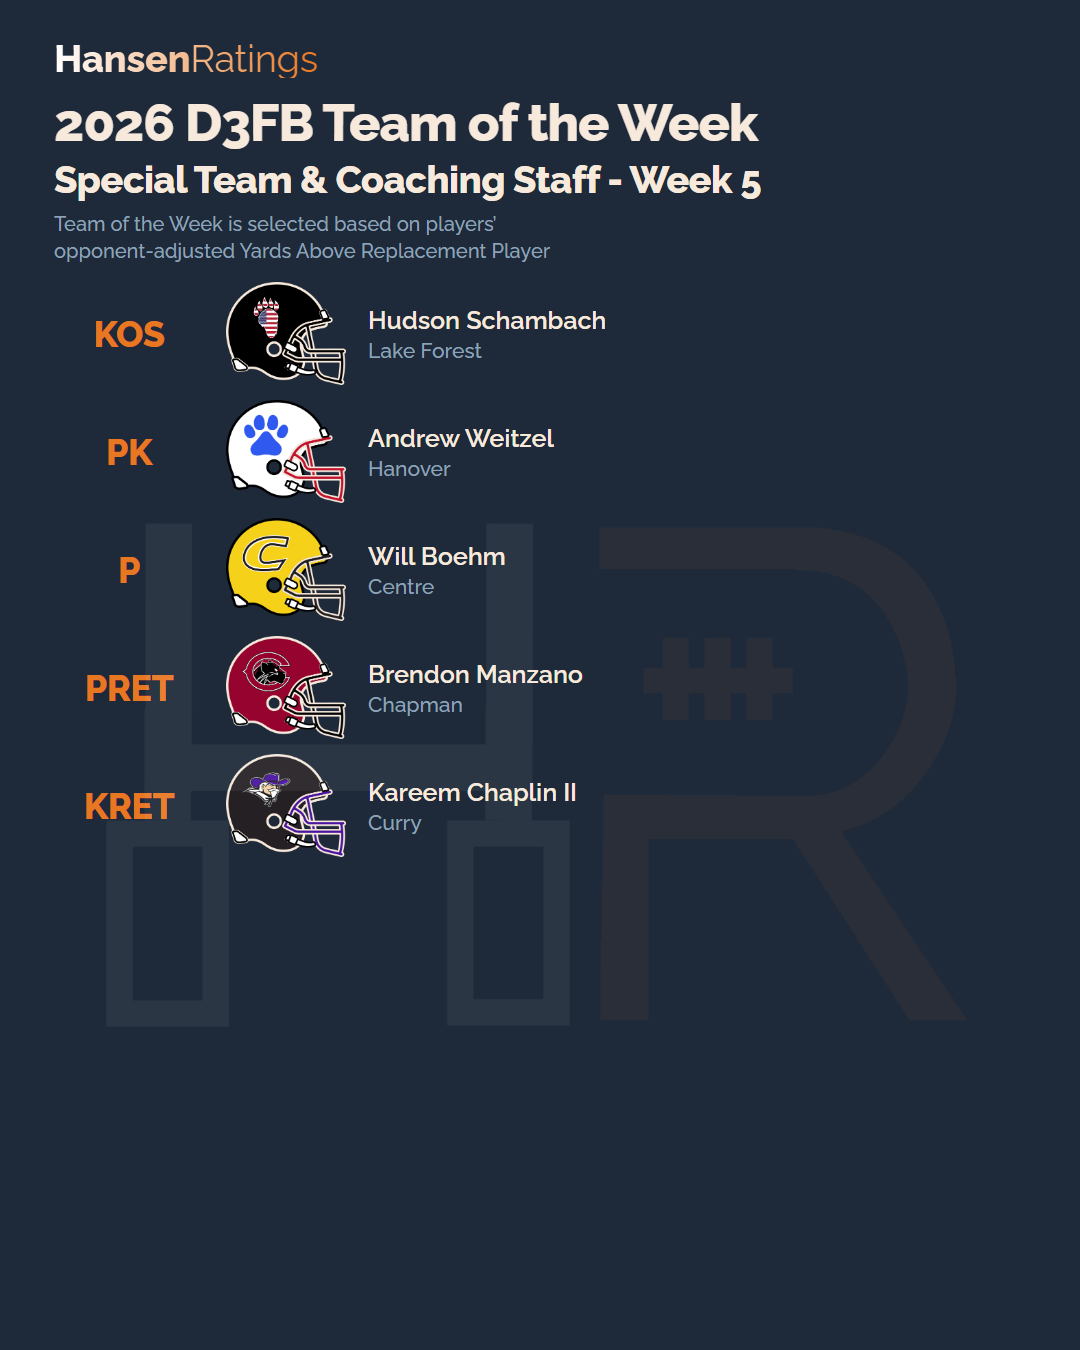
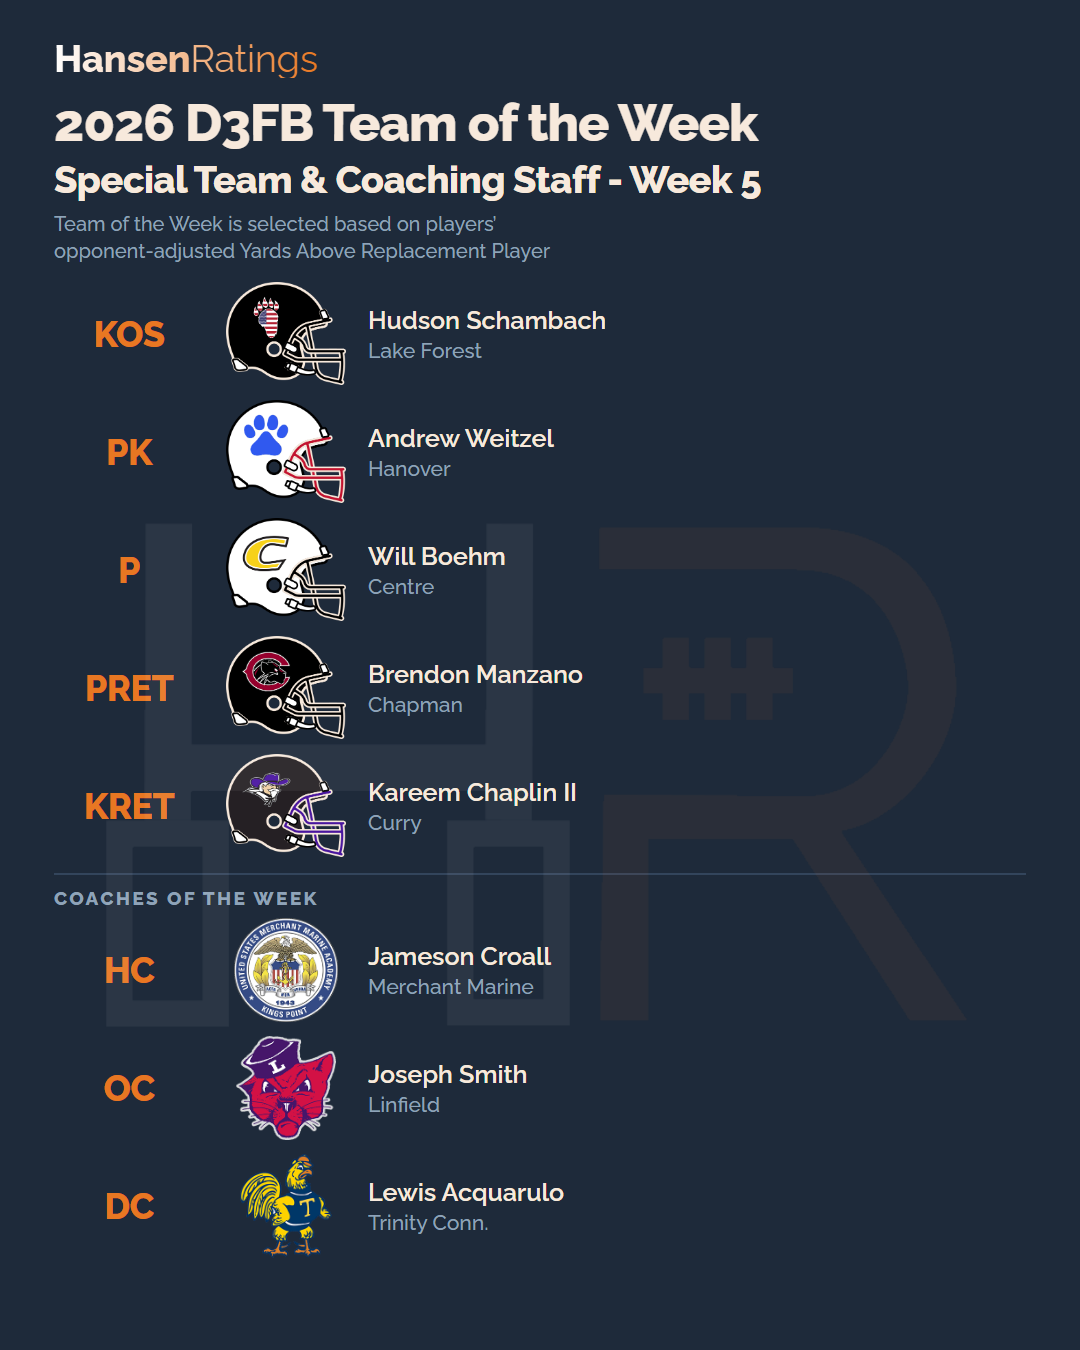
Week 5 TOTW

diff --git a/site/awards/2026/team-of-the-week/week-5/index.html b/site/awards/2026/team-of-the-week/week-5/index.html
@@ -25,7 +25,7 @@
     <nav class="hr-switch" aria-label="Season"><span class="hr-switch-label">Season</span><a aria-current="page">2026</a><a href="/awards/2025/">2025</a><a href="/awards/2024/">2024</a><a href="/awards/2023/">2023</a><a href="/awards/2022/">2022</a></nav><nav class="hr-switch" aria-label="View"><span class="hr-switch-label">View</span><a aria-current="page">Team of the Week</a></nav><nav class="hr-switch" aria-label="Week"><span class="hr-switch-label">Week</span><a aria-current="page">Week 5</a><a href="/awards/2026/team-of-the-week/week-4/">Week 4</a><a href="/awards/2026/team-of-the-week/week-3/">Week 3</a><a href="/awards/2026/team-of-the-week/week-2/">Week 2</a><a href="/awards/2026/team-of-the-week/week-1/">Week 1</a></nav>
   </div>
   <main class="hr-main">
-<div class="hr-scroll"><div class="hr-totw"><section class="u-off"><h2>Offense</h2><div class="r"><b>QB</b><span>Demir Ashiru<small>So</small><span class="t">UW-Oshkosh</span></span></div><div class="r"><b>RB</b><span>Tommy Novotny<small>Fr</small><span class="t">UW-Whitewater</span></span></div><div class="r"><b>RB</b><span>Dane Sorensen<small>Jr</small><span class="t">Dickinson</span></span></div><div class="r"><b>WR</b><span>Tyson Resper<small>Sr</small><span class="t">N.C. Wesleyan</span></span></div><div class="r"><b>WR</b><span>Angelo Cimino<small>Jr</small><span class="t">Merchant Marine</span></span></div><div class="r"><b>TE</b><span>Logan Frederick<small>Sr</small><span class="t">Utica</span></span></div><div class="r"><b>LT</b><span>Tyson Cramer<small>Sr</small><span class="t">North Central Ill.</span></span></div><div class="r"><b>LG</b><span>Dennis Dracup<small>So</small><span class="t">North Central Ill.</span></span></div><div class="r"><b>C</b><span>Jorge Ortiz<small>Sr</small><span class="t">North Central Ill.</span></span></div><div class="r"><b>RG</b><span>Cortez Jones<small>Sr</small><span class="t">North Central Ill.</span></span></div><div class="r"><b>RT</b><span>Jake Buckley<small>Fr</small><span class="t">North Central Ill.</span></span></div></section><section class="u-def"><h2>Defense</h2><div class="r"><b>DE</b><span>Joaquin Acuna<small>Sr</small><span class="t">Dickinson</span></span></div><div class="r"><b>DE</b><span>Beau Schrot<small>Jr</small><span class="t">UW-River Falls</span></span></div><div class="r"><b>DT</b><span>John Klefstad<small>Sr</small><span class="t">UW-River Falls</span></span></div><div class="r"><b>OLB</b><span>Luis Jaquez<small>Sr</small><span class="t">Western Connecticut</span></span></div><div class="r"><b>ILB</b><span>Marco Kaufman<small>Jr</small><span class="t">Dickinson</span></span></div><div class="r"><b>ILB</b><span>Toby White<small>Fr</small><span class="t">East Texas Baptist</span></span></div><div class="r"><b>CB</b><span>Drew Kortz<small>So</small><span class="t">UW-Whitewater</span></span></div><div class="r"><b>CB</b><span>Kam Brown<small>Jr</small><span class="t">Rowan</span></span></div><div class="r"><b>CB</b><span>Carter Sessa<small>Jr</small><span class="t">UW-Whitewater</span></span></div><div class="r"><b>SAF</b><span>Jonjon Delgado<small>Sr</small><span class="t">Willamette</span></span></div><div class="r"><b>SAF</b><span>Dawson Goodman<small>Sr</small><span class="t">UW-Stout</span></span></div></section><section class="u-st"><h2>Special Teams</h2><div class="r"><b>KOS</b><span>Hudson Schambach<small>So</small><span class="t">Lake Forest</span></span></div><div class="r"><b>PK</b><span>Andrew Weitzel<small>So</small><span class="t">Hanover</span></span></div><div class="r"><b>P</b><span>Will Boehm<small>Sr</small><span class="t">Centre</span></span></div><div class="r"><b>PRET</b><span>Brendon Manzano<small>Sr</small><span class="t">Chapman</span></span></div><div class="r"><b>KRET</b><span>Kareem Chaplin II<small>So</small><span class="t">Curry</span></span></div></section></div><div class="hr-boards"><img src="offense.png?v=43714f21" alt="2026 Week 5 team of the week, offense" loading="lazy"><img src="defense.png?v=94f7d1f1" alt="2026 Week 5 team of the week, defense" loading="lazy"><img src="special-teams.png?v=fe670494" alt="2026 Week 5 team of the week, special teams" loading="lazy"></div></div>
+<div class="hr-scroll"><div class="hr-totw"><section class="u-off"><h2>Offense</h2><div class="r"><b>QB</b><span>Demir Ashiru<small>So</small><span class="t">UW-Oshkosh</span></span></div><div class="r"><b>RB</b><span>Tommy Novotny<small>Fr</small><span class="t">UW-Whitewater</span></span></div><div class="r"><b>RB</b><span>Dane Sorensen<small>Jr</small><span class="t">Dickinson</span></span></div><div class="r"><b>WR</b><span>Tyson Resper<small>Sr</small><span class="t">N.C. Wesleyan</span></span></div><div class="r"><b>WR</b><span>Angelo Cimino<small>Jr</small><span class="t">Merchant Marine</span></span></div><div class="r"><b>TE</b><span>Logan Frederick<small>Sr</small><span class="t">Utica</span></span></div><div class="r"><b>LT</b><span>Tyson Cramer<small>Sr</small><span class="t">North Central Ill.</span></span></div><div class="r"><b>LG</b><span>Dennis Dracup<small>So</small><span class="t">North Central Ill.</span></span></div><div class="r"><b>C</b><span>Jorge Ortiz<small>Sr</small><span class="t">North Central Ill.</span></span></div><div class="r"><b>RG</b><span>Cortez Jones<small>Sr</small><span class="t">North Central Ill.</span></span></div><div class="r"><b>RT</b><span>Jake Buckley<small>Fr</small><span class="t">North Central Ill.</span></span></div></section><section class="u-def"><h2>Defense</h2><div class="r"><b>DE</b><span>Joaquin Acuna<small>Sr</small><span class="t">Dickinson</span></span></div><div class="r"><b>DE</b><span>Beau Schrot<small>Jr</small><span class="t">UW-River Falls</span></span></div><div class="r"><b>DT</b><span>John Klefstad<small>Sr</small><span class="t">UW-River Falls</span></span></div><div class="r"><b>OLB</b><span>Luis Jaquez<small>Sr</small><span class="t">Western Connecticut</span></span></div><div class="r"><b>ILB</b><span>Marco Kaufman<small>Jr</small><span class="t">Dickinson</span></span></div><div class="r"><b>ILB</b><span>Toby White<small>Fr</small><span class="t">East Texas Baptist</span></span></div><div class="r"><b>CB</b><span>Drew Kortz<small>So</small><span class="t">UW-Whitewater</span></span></div><div class="r"><b>CB</b><span>Kam Brown<small>Jr</small><span class="t">Rowan</span></span></div><div class="r"><b>CB</b><span>Carter Sessa<small>Jr</small><span class="t">UW-Whitewater</span></span></div><div class="r"><b>SAF</b><span>Jonjon Delgado<small>Sr</small><span class="t">Willamette</span></span></div><div class="r"><b>SAF</b><span>Dawson Goodman<small>Sr</small><span class="t">UW-Stout</span></span></div></section><section class="u-st"><h2>Special Teams</h2><div class="r"><b>KOS</b><span>Hudson Schambach<small>So</small><span class="t">Lake Forest</span></span></div><div class="r"><b>PK</b><span>Andrew Weitzel<small>So</small><span class="t">Hanover</span></span></div><div class="r"><b>P</b><span>Will Boehm<small>Sr</small><span class="t">Centre</span></span></div><div class="r"><b>PRET</b><span>Brendon Manzano<small>Sr</small><span class="t">Chapman</span></span></div><div class="r"><b>KRET</b><span>Kareem Chaplin II<small>So</small><span class="t">Curry</span></span></div></section><section class="u-co"><h2>Coaches</h2><div class="r"><b>HC</b><span>Jameson Croall<span class="t">Merchant Marine</span></span></div><div class="r"><b>OC</b><span>Joseph Smith<span class="t">Linfield</span></span></div><div class="r"><b>DC</b><span>Lewis Acquarulo<span class="t">Trinity Conn.</span></span></div></section></div><div class="hr-boards"><img src="offense.png?v=43714f21" alt="2026 Week 5 team of the week, offense" loading="lazy"><img src="defense.png?v=94f7d1f1" alt="2026 Week 5 team of the week, defense" loading="lazy"><img src="special-teams.png?v=c2ce3118" alt="2026 Week 5 team of the week, special teams" loading="lazy"></div></div>
   </main>
   <footer class="hr-foot">
     <span>&copy; Hansen Ratings</span>
